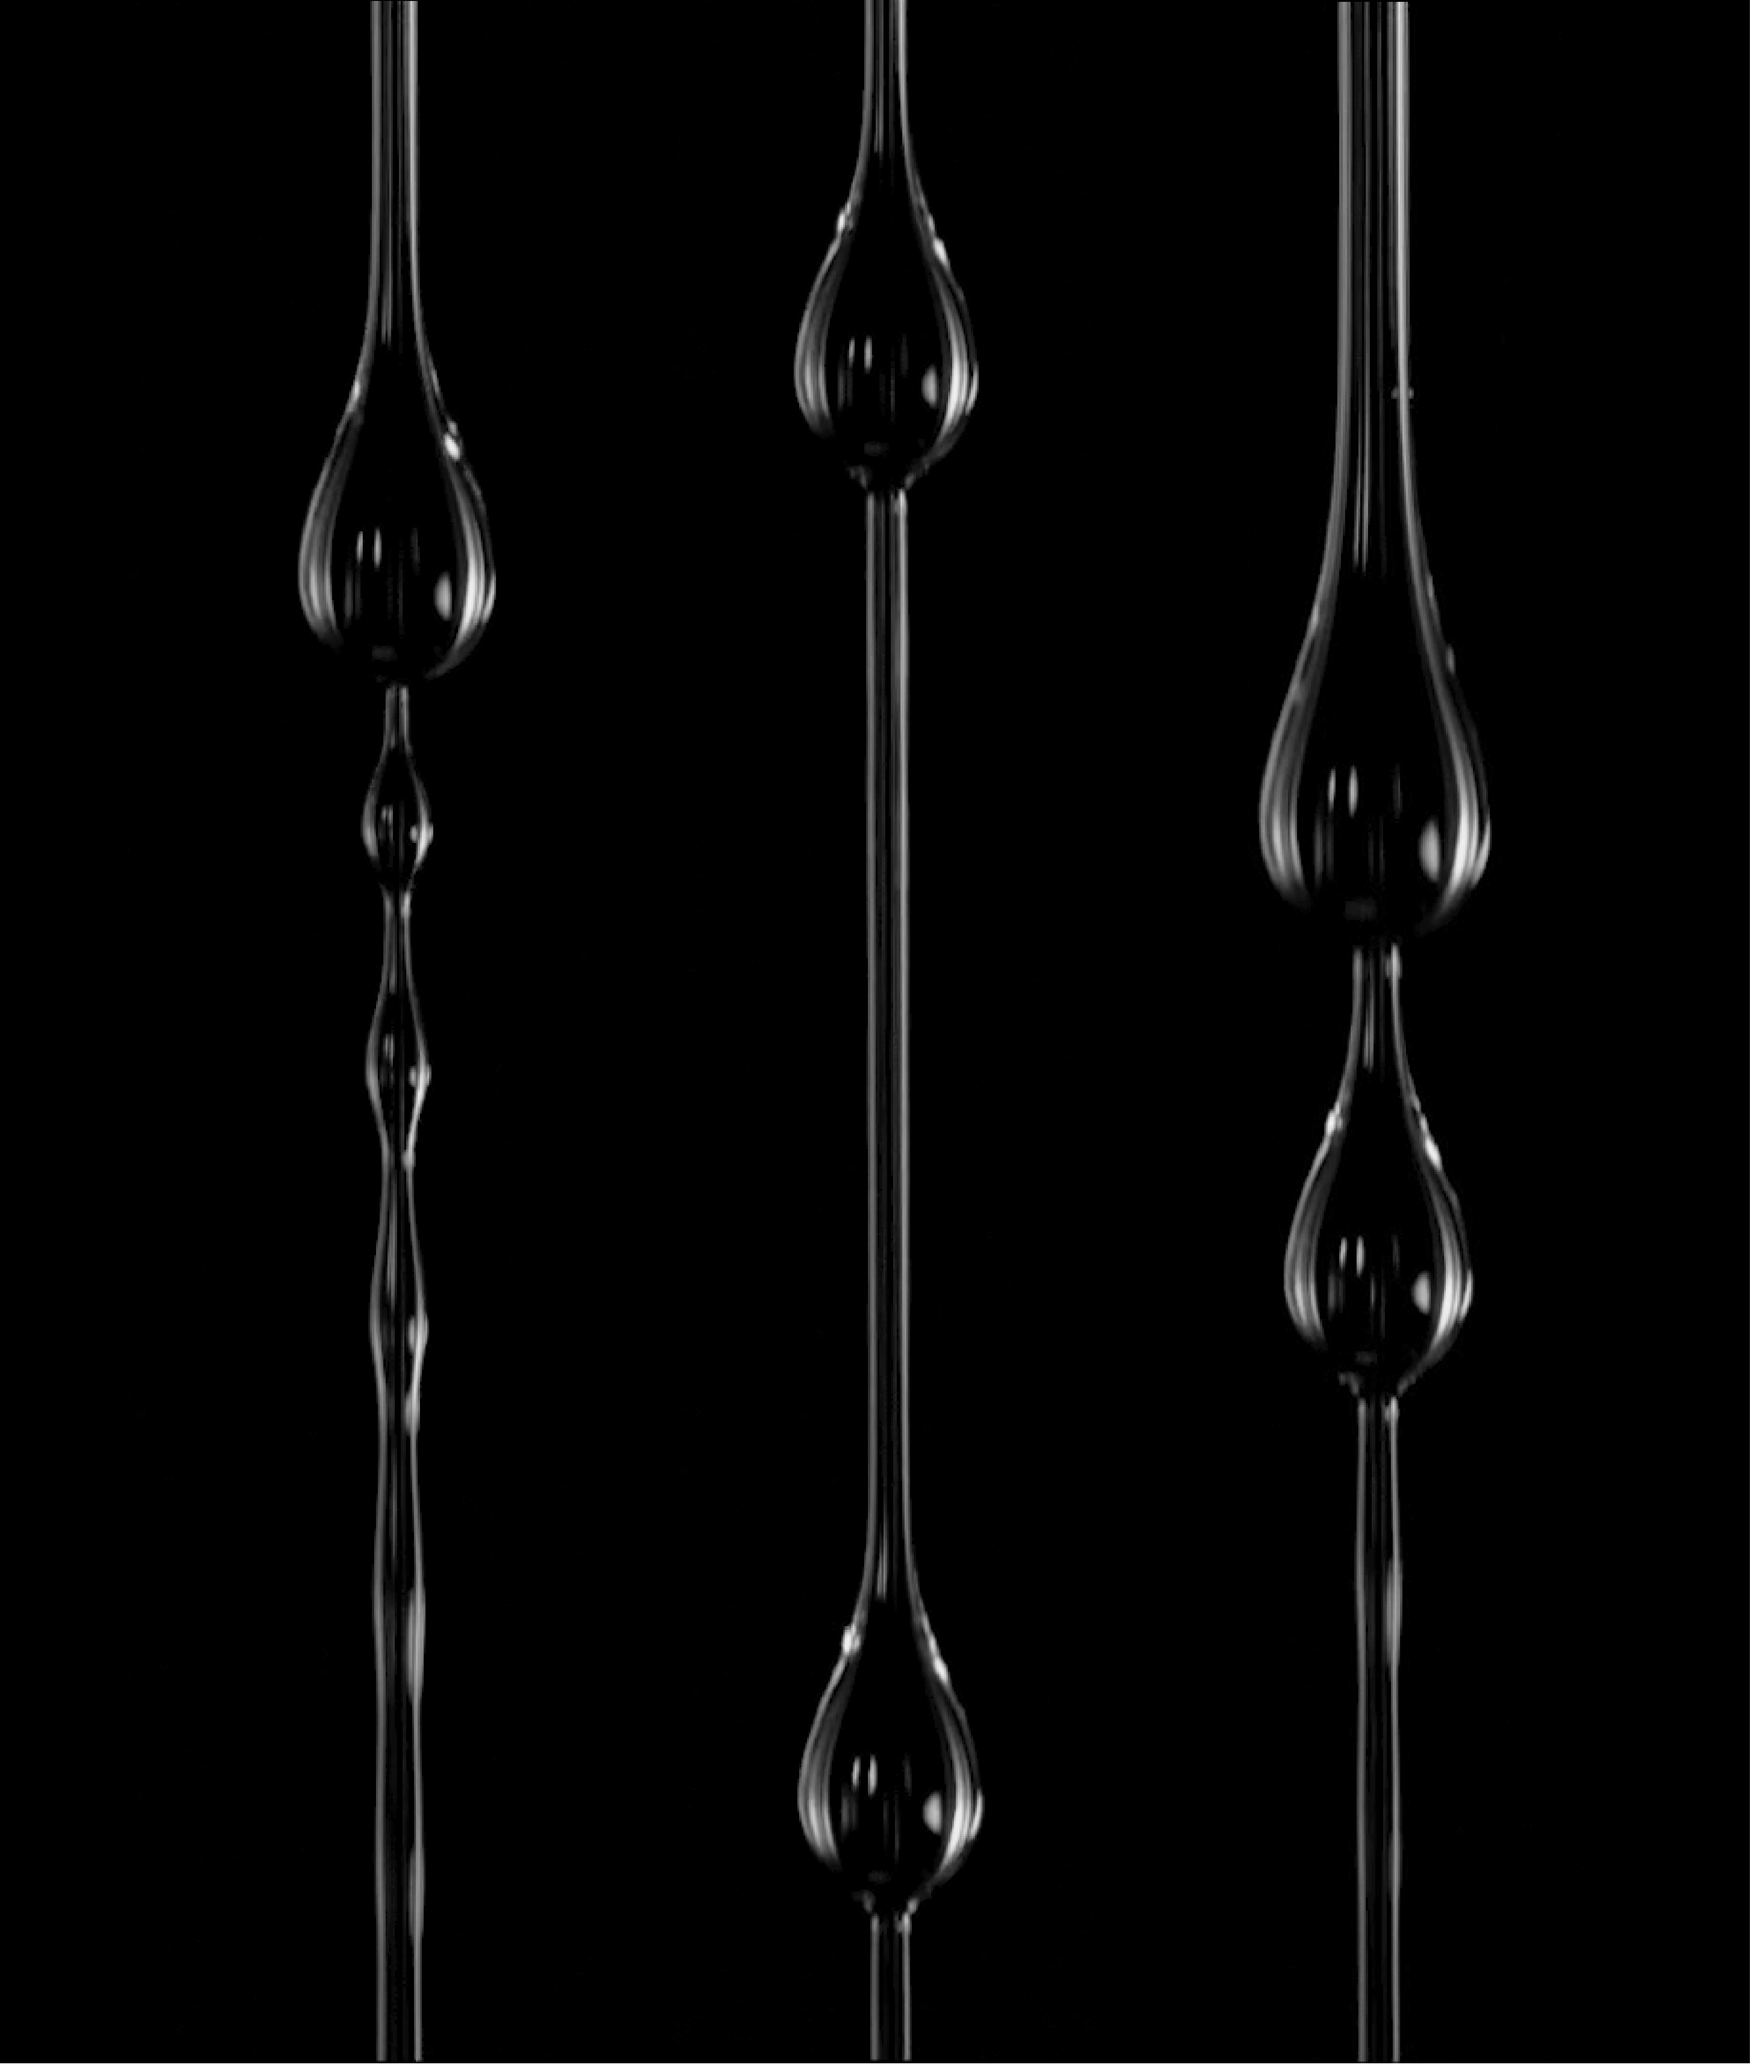
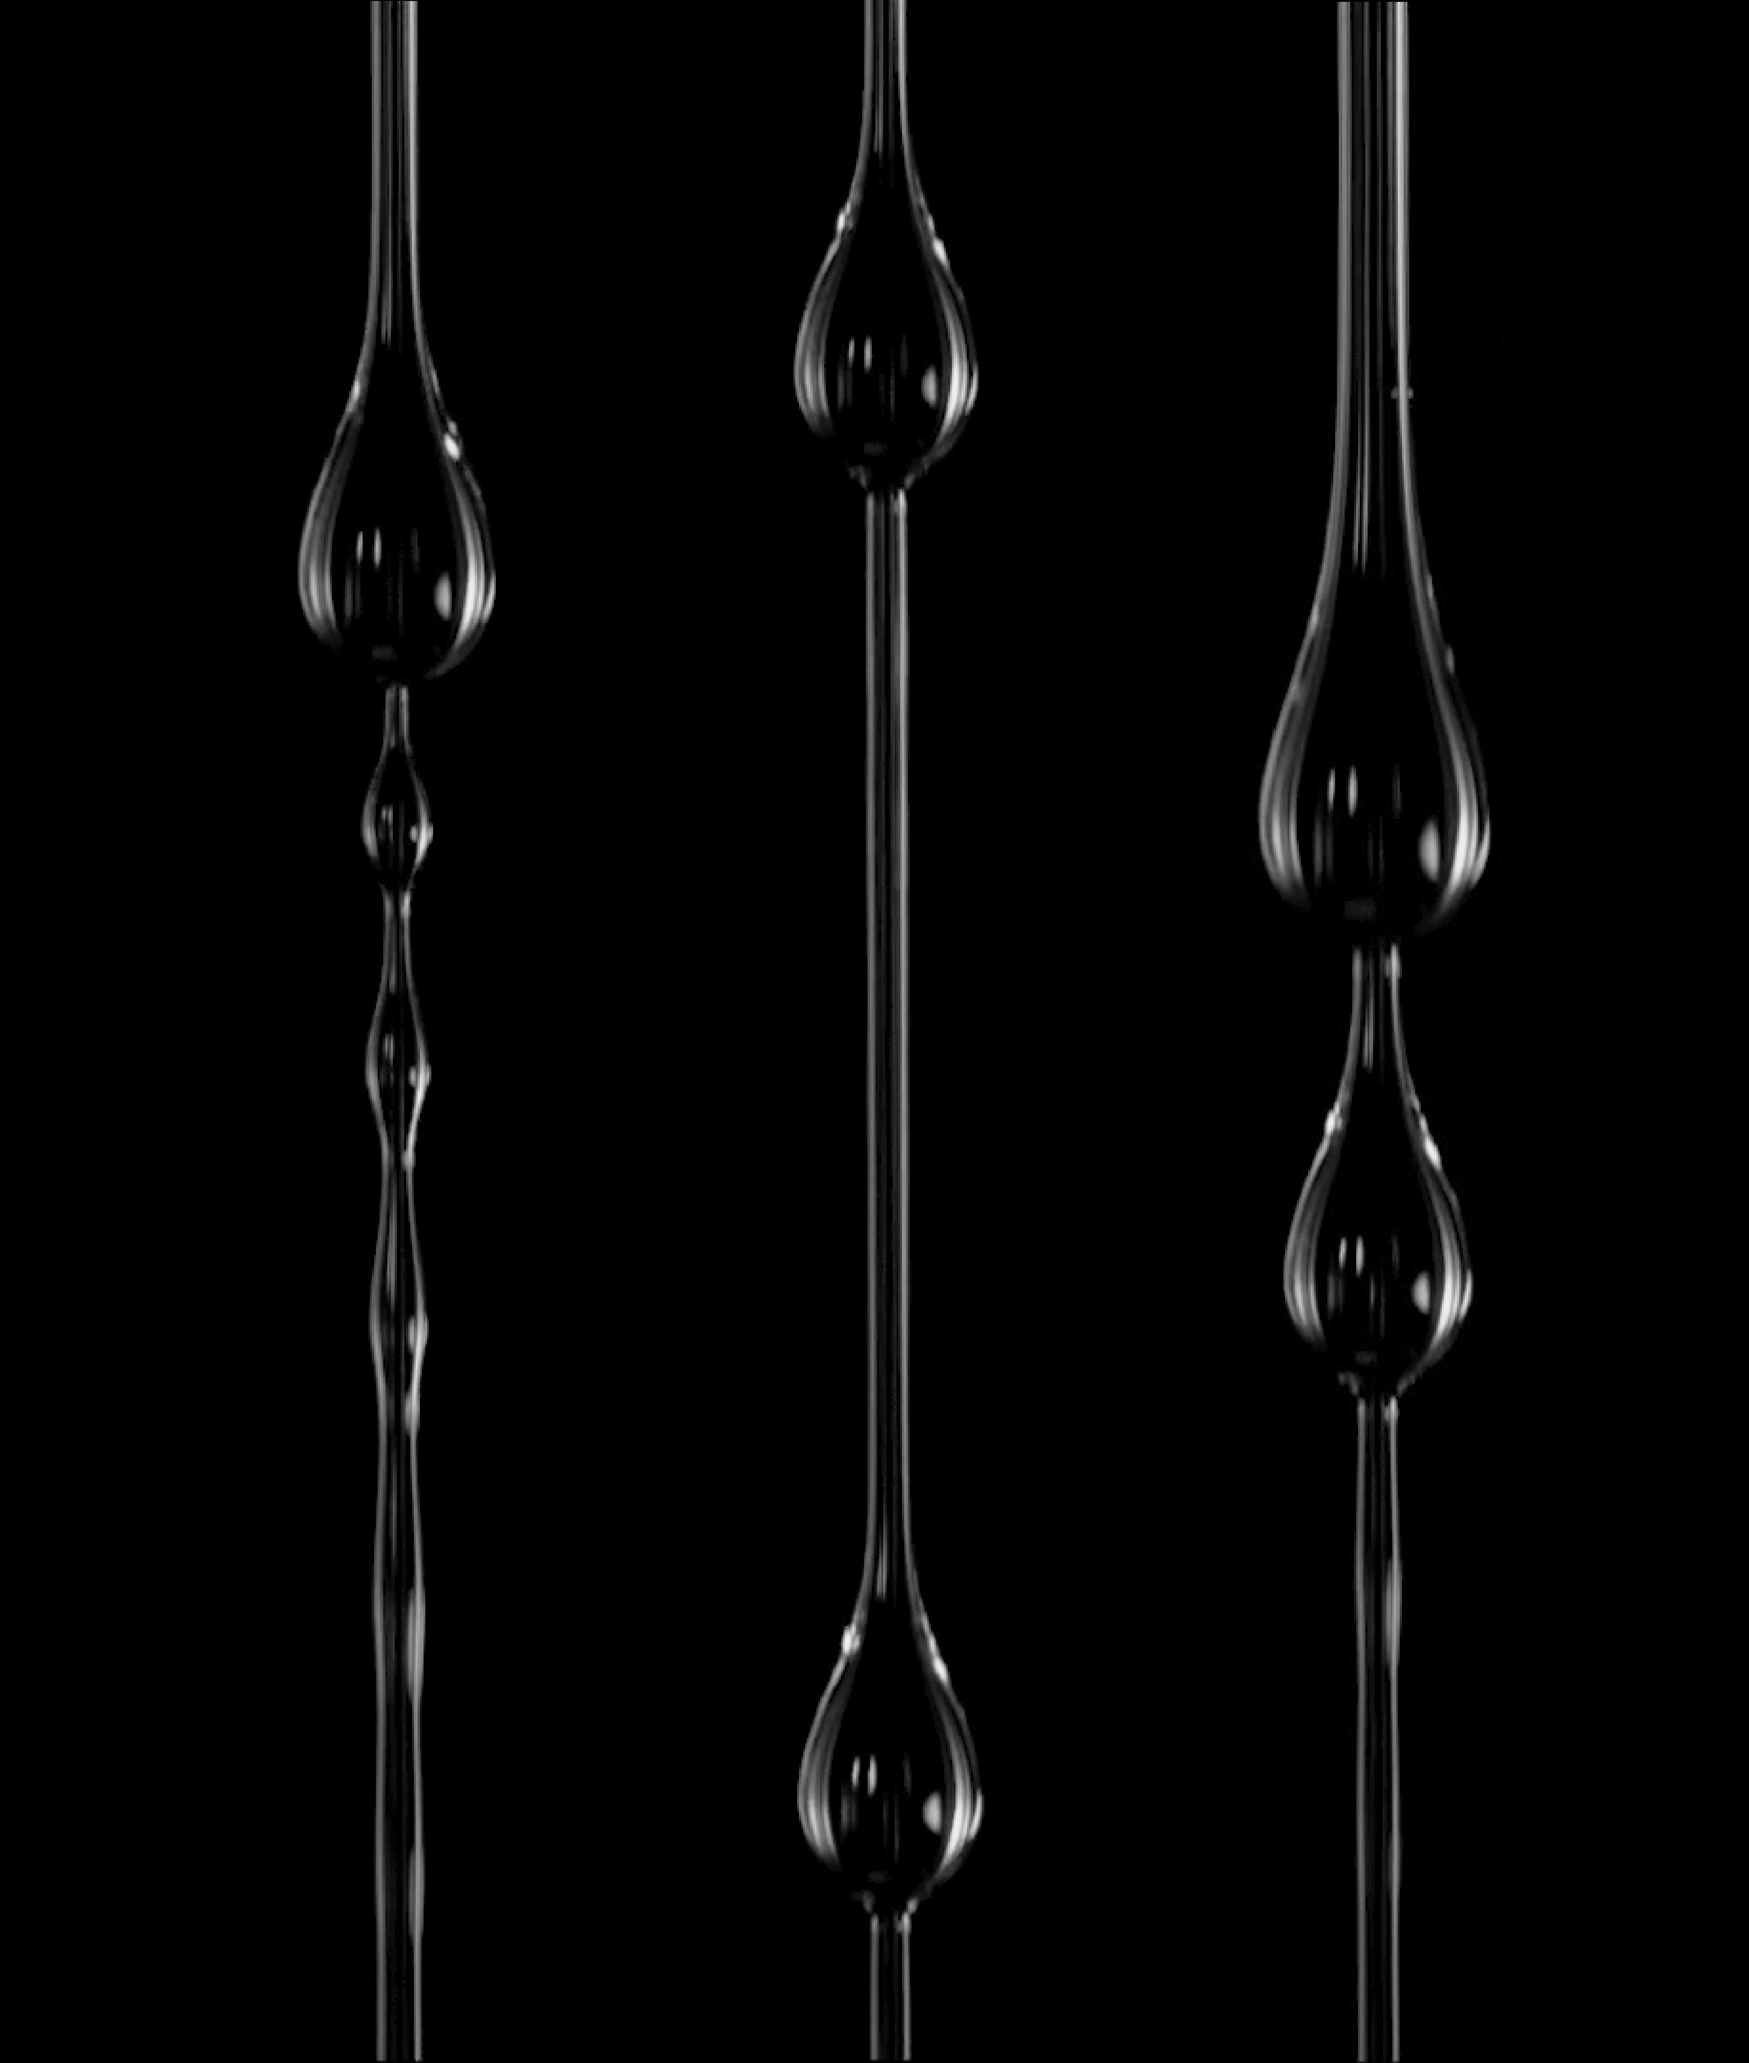
Remove white edge from bead-on-fiber patterns image
Claude-Session: https://claude.ai/code/session_01Ax24H634Ap3NuaQr6htDvt

diff --git a/index.html b/index.html
@@ -115,7 +115,7 @@
           </figure>
           <figure class="slide" role="group" aria-roledescription="slide" aria-label="4 of 7">
             <div class="slide__media">
-              <img src="assets/web/slides/bead-patterns.jpg" alt="Three vertical fibers coated with liquid that has broken into glistening beads, on black." width="1356" height="1600" loading="lazy" decoding="async">
+              <img src="assets/web/slides/bead-patterns-v2.jpg" alt="Three vertical fibers coated with liquid that has broken into glistening beads, on black." width="1357" height="1600" loading="lazy" decoding="async">
             </div>
             <figcaption class="slide__caption">
               <h3 class="slide__title">Bead-on-fiber patterns</h3>
@@ -164,7 +164,7 @@
           <li><button class="carousel__thumb" type="button" data-goto="0" aria-label="Show slide 1: Drop–bath rebound" aria-current="true"><img src="assets/web/slides/thumbs/drop-bath-2.jpg" alt="" width="320" height="234" loading="lazy" decoding="async"></button></li>
           <li><button class="carousel__thumb" type="button" data-goto="1" aria-label="Show slide 2: Water entry" aria-current="false"><img src="assets/web/slides/thumbs/wavy-water-entry.jpg" alt="" width="320" height="170" loading="lazy" decoding="async"></button></li>
           <li><button class="carousel__thumb" type="button" data-goto="2" aria-label="Show slide 3: Savart’s harp" aria-current="false"><img src="assets/web/slides/thumbs/savarts-harp.jpg" alt="" width="320" height="262" loading="lazy" decoding="async"></button></li>
-          <li><button class="carousel__thumb" type="button" data-goto="3" aria-label="Show slide 4: Bead-on-fiber patterns" aria-current="false"><img src="assets/web/slides/thumbs/bead-patterns.jpg" alt="" width="271" height="320" loading="lazy" decoding="async"></button></li>
+          <li><button class="carousel__thumb" type="button" data-goto="3" aria-label="Show slide 4: Bead-on-fiber patterns" aria-current="false"><img src="assets/web/slides/thumbs/bead-patterns-v2.jpg" alt="" width="271" height="320" loading="lazy" decoding="async"></button></li>
           <li><button class="carousel__thumb" type="button" data-goto="4" aria-label="Show slide 5: On the bounce" aria-current="false"><img src="assets/web/slides/thumbs/bouncing-drop.jpg" alt="" width="320" height="166" loading="lazy" decoding="async"></button></li>
           <li><button class="carousel__thumb" type="button" data-goto="5" aria-label="Show slide 6: Particle ejection" aria-current="false"><img src="assets/web/slides/thumbs/particle-ejection.jpg" alt="" width="320" height="288" loading="lazy" decoding="async"></button></li>
           <li><button class="carousel__thumb" type="button" data-goto="6" aria-label="Show slide 7: The breaking point" aria-current="false"><img src="assets/web/slides/thumbs/breaking-point.jpg" alt="" width="320" height="181" loading="lazy" decoding="async"></button></li>

diff --git a/gallery.html b/gallery.html
@@ -86,8 +86,8 @@
             <figcaption>Particle ejection</figcaption>
           </figure>
           <figure class="tile">
-            <a href="assets/web/gallery/bead-patterns.jpg" data-lightbox data-caption="Bead-on-fiber patterns" data-full="assets/Images/BeadPatterns.jpg">
-              <img src="assets/web/gallery/bead-patterns.jpg" alt="Bead-on-fiber patterns" width="1695" height="2000" loading="lazy" decoding="async">
+            <a href="assets/web/gallery/bead-patterns-v2.jpg" data-lightbox data-caption="Bead-on-fiber patterns" data-full="assets/Images/BeadPatterns.jpg">
+              <img src="assets/web/gallery/bead-patterns-v2.jpg" alt="Bead-on-fiber patterns" width="1696" height="2000" loading="lazy" decoding="async">
             </a>
             <figcaption>Bead-on-fiber patterns</figcaption>
           </figure>
